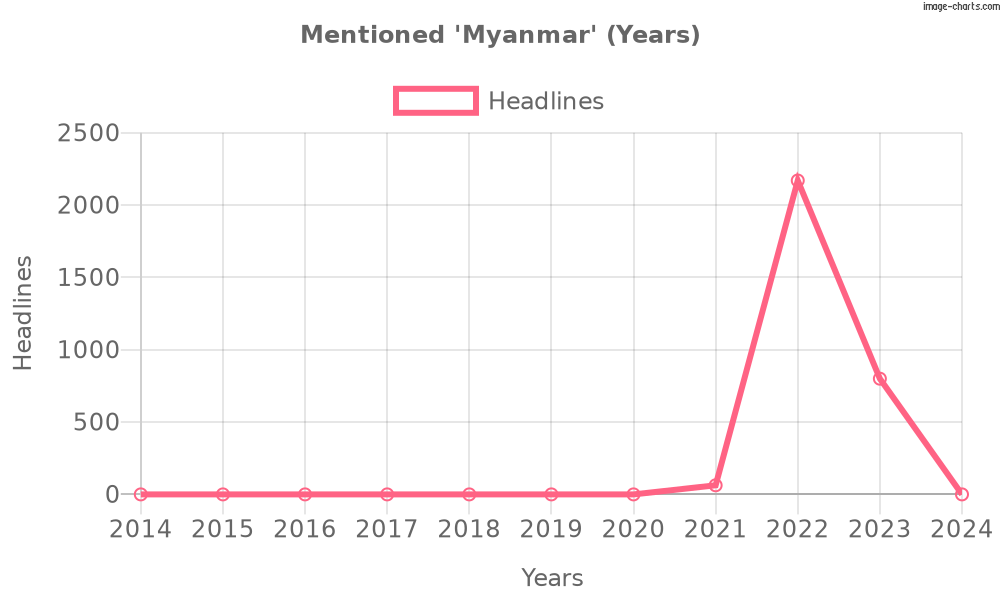
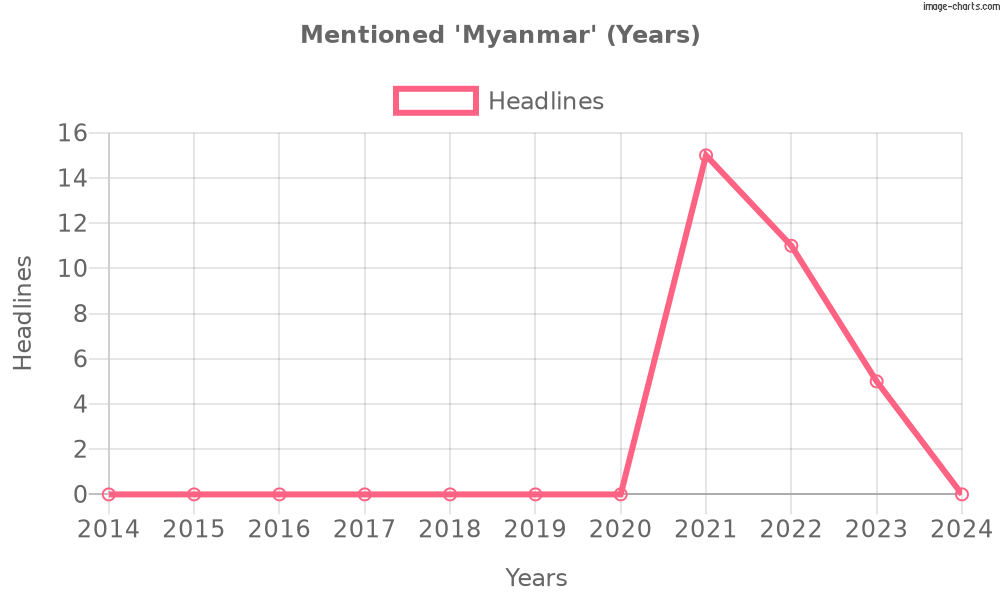
latest

Changed region(s): [[0.062, 0.24, 0.961, 0.9], [0.496, 0.93, 0.589, 0.99], [0.062, 0.21, 0.124, 0.24]]

diff --git a/charts.js b/charts.js
@@ -216,7 +216,7 @@ var run = async () => {
         "label": "Headlines",
         "borderColor": "rgb(255,+99,+132)",
         "backgroundColor": "rgba(255,+99,+132,+.5)",
-        "data": Object.values(mentioned('ukraine'))
+        "data": Object.values(mentioned('Myanmar'))
       },
     ]
   }, `./charts/chart-${index}.png`, { title: 'Mentioned \'Myanmar\' (Years)', label: 'Years' })

diff --git a/readme.md b/readme.md
@@ -11,7 +11,7 @@
 
 ```
 {
-    "title": "Negativity drives online news consumption.",
+    "title": "Negativity drives online news consumption",
     "domain": "nature.com",
     "category": "science",
     "link": "https://www.nature.com/articles/s41562-023-01538-4",
